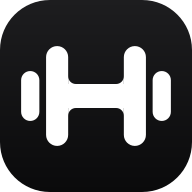
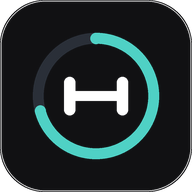
App renombrada a Forma con icono nuevo (anillo y mancuerna)
Se mantiene el id del manifest y la URL para que siga siendo la misma app instalada.

Claude-Session: https://claude.ai/code/session_01FREi5oT8TDGz3kcHiP3wu5

diff --git a/index.html b/index.html
@@ -3,7 +3,7 @@
 <head>
 <meta charset="utf-8">
 <meta name="viewport" content="width=device-width, initial-scale=1, viewport-fit=cover">
-<title>Cambio físico</title>
+<title>Forma</title>
 <link rel="manifest" href="manifest.webmanifest">
 <meta name="theme-color" content="#090a0c">
 <meta name="color-scheme" content="dark">
@@ -244,7 +244,7 @@ html.nosc{overflow:hidden}
 </style>
 </head>
 <body>
-<svg width="0" height="0" style="position:absolute" aria-hidden="true"><symbol id="logo" viewBox="0 0 100 100"><rect x="1" y="1" width="98" height="98" rx="25" fill="#111113" stroke="rgba(255,255,255,.16)" stroke-width="2"/><g fill="#fff"><rect x="11" y="37" width="9.5" height="26" rx="4.75"/><rect x="79.5" y="37" width="9.5" height="26" rx="4.75"/><rect x="24" y="24" width="11.5" height="52" rx="5.75"/><rect x="64.5" y="24" width="11.5" height="52" rx="5.75"/><rect x="33" y="43.75" width="34" height="12.5"/><path d="M35.5 39.75V44H39.5V43.75A4 4 0 0 1 35.5 39.75Z"/><path d="M64.5 39.75V44H60.5V43.75A4 4 0 0 0 64.5 39.75Z"/><path d="M35.5 60.25V56H39.5V56.25A4 4 0 0 0 35.5 60.25Z"/><path d="M64.5 60.25V56H60.5V56.25A4 4 0 0 1 64.5 60.25Z"/></g></symbol><symbol id="logoc" viewBox="0 0 100 100"><circle cx="50" cy="50" r="49" fill="#111113" stroke="rgba(255,255,255,.16)" stroke-width="2"/><g fill="#fff"><rect x="11" y="37" width="9.5" height="26" rx="4.75"/><rect x="79.5" y="37" width="9.5" height="26" rx="4.75"/><rect x="24" y="24" width="11.5" height="52" rx="5.75"/><rect x="64.5" y="24" width="11.5" height="52" rx="5.75"/><rect x="33" y="43.75" width="34" height="12.5"/><path d="M35.5 39.75V44H39.5V43.75A4 4 0 0 1 35.5 39.75Z"/><path d="M64.5 39.75V44H60.5V43.75A4 4 0 0 0 64.5 39.75Z"/><path d="M35.5 60.25V56H39.5V56.25A4 4 0 0 0 35.5 60.25Z"/><path d="M64.5 60.25V56H60.5V56.25A4 4 0 0 1 64.5 60.25Z"/></g></symbol></svg>
+<svg width="0" height="0" style="position:absolute" aria-hidden="true"><symbol id="logoc" viewBox="0 0 120 120"><circle cx="60" cy="60" r="59" fill="#111113" stroke="rgba(255,255,255,.16)" stroke-width="2"/><circle cx="60" cy="60" r="36" fill="none" stroke="#2a2f38" stroke-width="7"/><circle cx="60" cy="60" r="36" fill="none" stroke="#4fd1c5" stroke-width="7" stroke-linecap="round" stroke-dasharray="160 66" transform="rotate(-90 60 60)"/><g fill="#fff"><rect x="40" y="48" width="7" height="24" rx="3.5"/><rect x="73" y="48" width="7" height="24" rx="3.5"/><rect x="47" y="57" width="26" height="6"/></g></symbol></svg>
 <div class="wrap">
   <div class="top" id="top">
   <div class="tfx" aria-hidden="true"></div>
@@ -258,7 +258,7 @@ html.nosc{overflow:hidden}
           <button class="pi" role="menuitem" id="ghtok">Clave de GitHub</button>
           <button class="pi" role="menuitem" id="chpass">Cambiar clave de datos</button>
         </div></div>
-      <div><h1>Cambio físico</h1><div class="sub" id="subtitle">Hevy + Garmin Connect</div></div>
+      <div><h1>Forma</h1><div class="sub" id="subtitle">Hevy + Garmin Connect</div></div>
     </div>
     <div class="live">
       <span class="pill" id="pdata"><i class="dot"></i><span>Cargando…</span></span>
@@ -281,8 +281,8 @@ html.nosc{overflow:hidden}
 <div class="sheet" id="sheet" hidden><div class="sb" data-act="close"></div><div class="sp"><div class="grab" id="grab"></div><div id="shc"></div></div></div>
 <div id="lock" style="display:none;position:fixed;inset:0;z-index:100;background:var(--bg);place-items:center;padding:24px">
   <form id="lockform" class="card" style="max-width:360px;width:100%;text-align:center">
-    <div style="width:64px;height:64px;margin:0 auto 14px"><svg viewBox="0 0 100 100" aria-hidden="true" style="display:block;width:100%;height:100%"><use href="#logoc"/></svg></div>
-    <h1 style="margin-bottom:6px">Cambio físico</h1>
+    <div style="width:64px;height:64px;margin:0 auto 14px"><svg viewBox="0 0 120 120" aria-hidden="true" style="display:block;width:100%;height:100%"><use href="#logoc"/></svg></div>
+    <h1 style="margin-bottom:6px">Forma</h1>
     <div class="sub" style="margin-bottom:14px" id="lockmsg">Escribe la clave de tus datos (la misma que pusiste en GitHub como APP_PASSPHRASE). Se guarda solo en este móvil.</div>
     <input id="pass" type="password" autocomplete="current-password" placeholder="Clave" style="width:100%;padding:12px 14px;border-radius:12px;border:1px solid var(--line);background:var(--card2);color:var(--text);font:500 16px var(--font);margin-bottom:10px">
     <button class="btn" type="submit" style="width:100%;padding:12px;background:var(--run);color:#06120f;border:0">Desbloquear</button>
@@ -755,7 +755,7 @@ function openRun(id){
 async function act(a,el){
   if(a==='close')return closeSheet();
   if(a==='gdel'){if(UI.gf&&confirm('¿Borrar este objetivo?')){GOALS=GOALS.filter(x=>x.id!==UI.gf.g.id);saveGoals();closeSheet();mark(['cuerpo','resumen'],true)}return}
-  if(a==='share'){const tx=T._share||'';try{if(navigator.share)await navigator.share({title:'Cambio físico',text:tx});else{await navigator.clipboard.writeText(tx);if(el){el.textContent='Copiado ✓';setTimeout(()=>el.textContent='Compartir',1500)}}}catch(e){}return}
+  if(a==='share'){const tx=T._share||'';try{if(navigator.share)await navigator.share({title:'Forma',text:tx});else{await navigator.clipboard.writeText(tx);if(el){el.textContent='Copiado ✓';setTimeout(()=>el.textContent='Compartir',1500)}}}catch(e){}return}
   if(a==='wk-prev'&&UI.wk>W1)UI.wk=addDays(UI.wk,-7);
   else if(a==='wk-next'&&UI.wk<weekStart(today()))UI.wk=addDays(UI.wk,7);
   else if(a==='wk-now')UI.wk=weekStart(today());

diff --git a/sw.js b/sw.js
@@ -1,4 +1,4 @@
-const V='cambio-v20';
+const V='cambio-v21';
 const SHELL=['./','index.html','manifest.webmanifest','icon-192.png','icon-512.png'];
 self.addEventListener('install',e=>{e.waitUntil(caches.open(V).then(c=>c.addAll(SHELL)).then(()=>self.skipWaiting()))});
 self.addEventListener('activate',e=>{e.waitUntil(caches.keys().then(ks=>Promise.all(ks.filter(k=>k!==V).map(k=>caches.delete(k)))).then(()=>self.clients.claim()))});

diff --git a/README.md b/README.md
@@ -1,4 +1,4 @@
-# Cambio físico · app para tu Pixel 10a
+# Forma · app para tu Pixel 10a
 
 Panel con tus datos de Hevy (fuerza) y Garmin (carrera, sueño, VFC, peso). Se instala como app (icono: mancuerna blanca sobre negro), abre sin cobertura y se actualiza sola cada 30 min. Tus datos van **cifrados**: la web es pública, pero solo tú los lees con tu clave.
 
